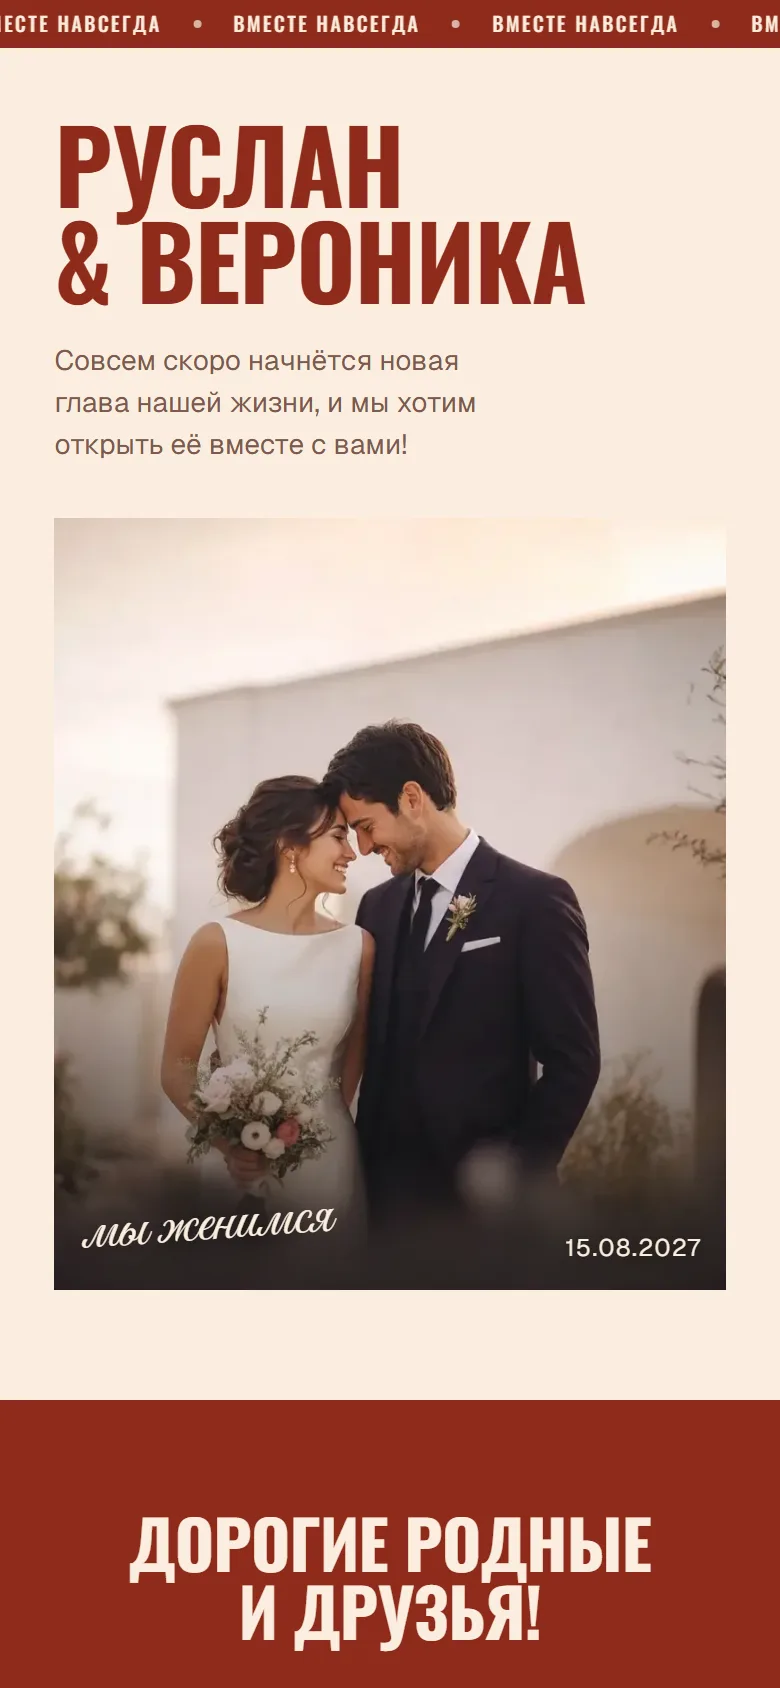
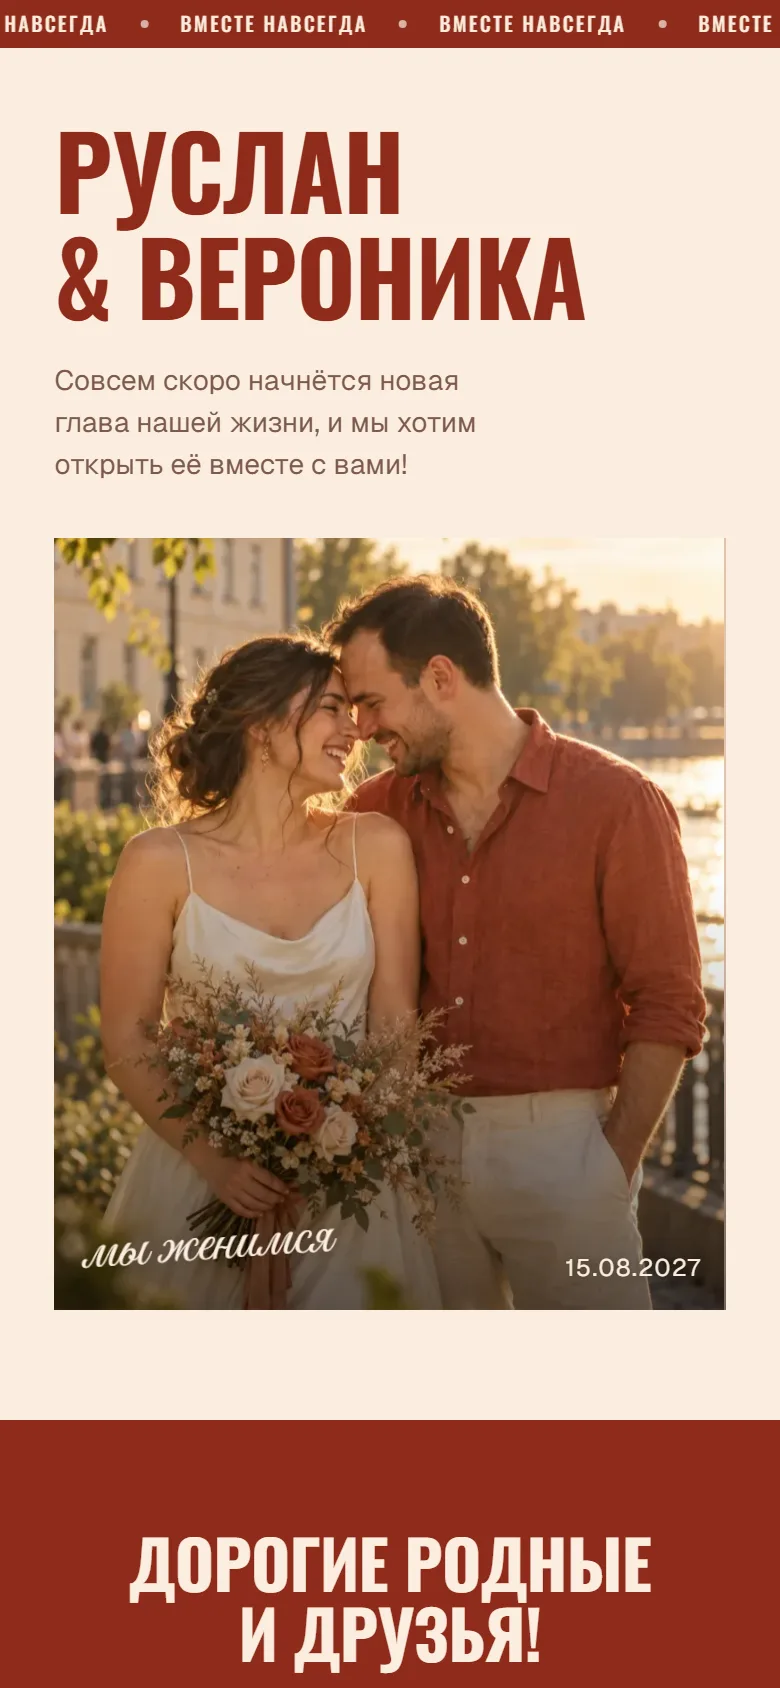
fix: real photos and review fixes for terracotta forever template
Replace placeholder demo photos with generated ones, refresh catalog
screenshots and bust the catalog card cache. Keep name diacritics and
descenders visible inside the reveal mask, expose `date`/`cover` keys
for editor preview scrolling, and hide the countdown when the date or
time is invalid. Update the photo prompts to the ones actually used.

diff --git a/frontend/src/invitation-templates/terra/template.tsx b/frontend/src/invitation-templates/terra/template.tsx
@@ -63,16 +63,20 @@ function Photo({
 
 function Countdown({ date, time }: { date: string; time: string }) {
   const [remaining, setRemaining] = useState<number | null>(null);
+  // Дата и время в схеме — свободные строки: без валидного момента отсчёт не показываем
+  const timestamp = new Date(date + "T" + time + ":00").getTime();
   useEffect(() => {
-    const timestamp = new Date(date + "T" + time + ":00").getTime();
-    const update = () =>
-      setRemaining(
-        Number.isFinite(timestamp) ? Math.max(0, Math.floor((timestamp - Date.now()) / 1000)) : 0,
-      );
+    if (!Number.isFinite(timestamp)) {
+      return;
+    }
+    const update = () => setRemaining(Math.max(0, Math.floor((timestamp - Date.now()) / 1000)));
     update();
     const timer = window.setInterval(update, 1000);
     return () => window.clearInterval(timer);
-  }, [date, time]);
+  }, [timestamp]);
+  if (!Number.isFinite(timestamp)) {
+    return null;
+  }
   const seconds = remaining ?? 0;
   const parts = [
     Math.floor(seconds / 86400),
@@ -141,7 +145,7 @@ export default function TerraTemplate({
       />
       <article ref={rootRef} className={styles.shell} style={inviteVars}>
         <Ticker />
-        <section className={styles.hero} data-invite-section="hero">
+        <section className={styles.hero} data-invite-section="hero cover">
           <h1>
             <span className={styles.nameLine}>
               <span>{invite.groom}</span>
@@ -162,8 +166,8 @@ export default function TerraTemplate({
           </figure>
         </section>
 
-        <section className={styles.block} data-invite-section="greeting when location">
-          <div className={styles.greeting} data-reveal>
+        <section className={styles.block}>
+          <div className={styles.greeting} data-reveal data-invite-section="greeting">
             <h2>
               Дорогие родные
               <br />и друзья!
@@ -171,7 +175,7 @@ export default function TerraTemplate({
             {invite.lead && <p>{tie(invite.lead)}</p>}
           </div>
 
-          <div className={styles.when} data-reveal>
+          <div className={styles.when} data-reveal data-invite-section="when date">
             <div className={styles.weekdays} aria-hidden="true">
               {calendarDays.map((day, index) => (
                 <span key={index}>{day.label}</span>
@@ -199,7 +203,7 @@ export default function TerraTemplate({
             </p>
           </div>
 
-          <div className={styles.location} data-reveal>
+          <div className={styles.location} data-reveal data-invite-section="location">
             <h2 className={styles.script}>Локация</h2>
             <h3>{invite.venue}</h3>
             <address>{[invite.city, invite.address].filter(Boolean).join(", ")}</address>

diff --git a/frontend/src/invitation-templates/terra/template.module.css b/frontend/src/invitation-templates/terra/template.module.css
@@ -107,7 +107,7 @@
 .hero h1 {
   color: var(--invite-accent);
   font-size: clamp(40px, 13cqw, 66px);
-  line-height: 0.95;
+  line-height: 1.05;
 }
 .hero h1 span {
   display: inline-block;
@@ -668,7 +668,9 @@
 .nameLine {
   max-width: 100%;
   overflow: hidden;
-  padding-bottom: 0.06em;
+  /* Поля под кратку Й, точки Ё и хвосты Д/Щ; отрицательные отступы сохраняют раскладку */
+  padding: 0.24em 0 0.16em;
+  margin: -0.24em 0 -0.16em;
   vertical-align: top;
 }
 .nameLine > span {
@@ -892,7 +894,7 @@
 }
 @keyframes nameRise {
   from {
-    transform: translateY(105%);
+    transform: translateY(140%);
   }
 }
 @keyframes fadeUp {

diff --git a/packages/shared/dist/invite-template-catalog.js b/packages/shared/dist/invite-template-catalog.js
@@ -1239,7 +1239,7 @@ exports.inviteTemplateCatalog = [
             "terra-graphite",
         ],
         tags: ["типографика", "фото"],
-        screenshot: "/images/templates/terracotta-forever-mobile.webp",
+        screenshot: "/images/templates/terracotta-forever-mobile.webp?v=20261031",
         preview: { background: "#eadbcb", surface: "#fbeedf", ink: "#3a1f18", accent: "#8e2b1b" },
         editorPreset: {
             bride: "Вероника",

diff --git a/packages/shared/src/invite-template-catalog.ts b/packages/shared/src/invite-template-catalog.ts
@@ -1383,7 +1383,7 @@ export const inviteTemplateCatalog: InviteTemplateDefinition[] = [
       "terra-graphite",
     ],
     tags: ["типографика", "фото"],
-    screenshot: "/images/templates/terracotta-forever-mobile.webp",
+    screenshot: "/images/templates/terracotta-forever-mobile.webp?v=20261031",
     preview: { background: "#eadbcb", surface: "#fbeedf", ink: "#3a1f18", accent: "#8e2b1b" },
     editorPreset: {
       bride: "Вероника",
